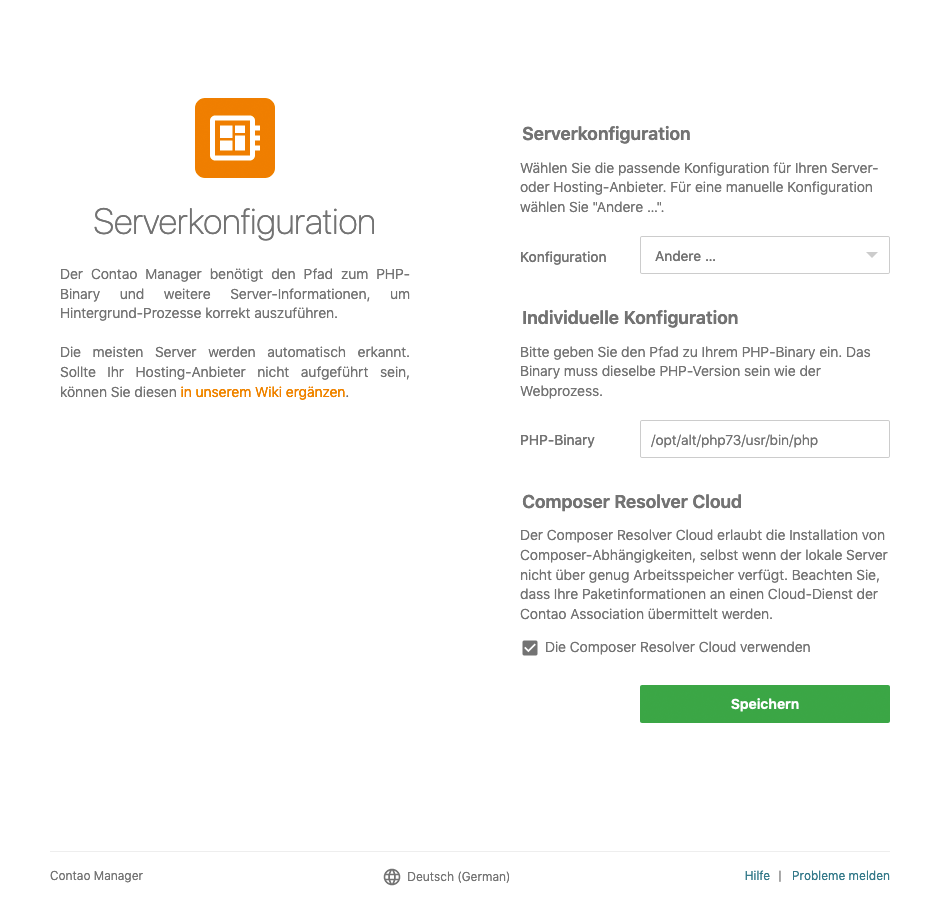
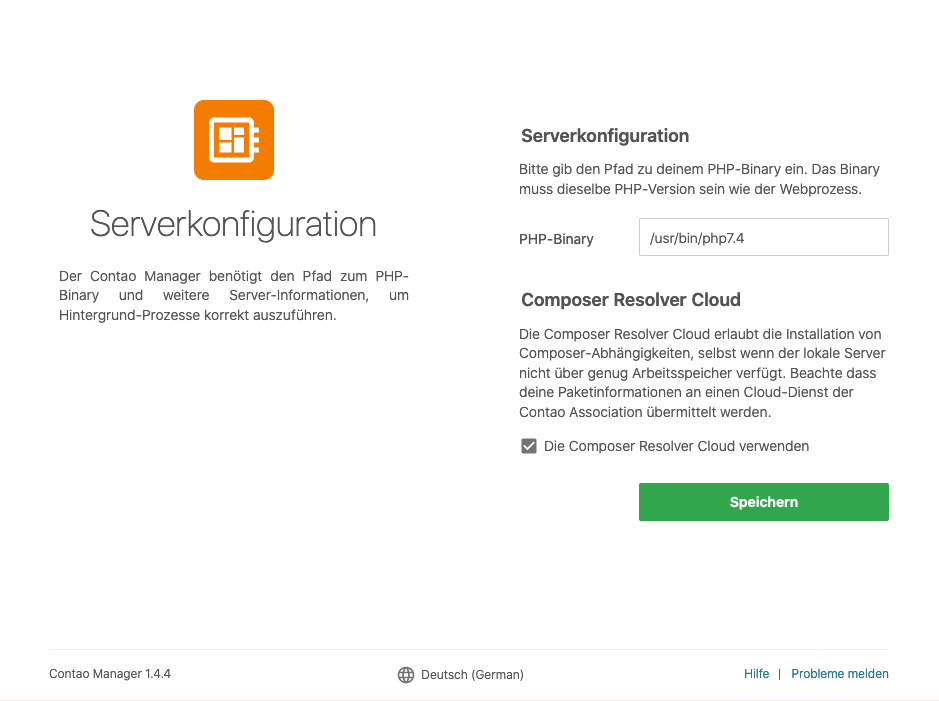
Remove the hosting provider select field

diff --git a/docs/manual/installation/contao-manager.de.md b/docs/manual/installation/contao-manager.de.md
@@ -101,16 +101,7 @@ Der Contao Manager benötigt keine eigene Datenbank. Die Konfiguration des Conta
 ### Serverkonfiguration
 
 Der Contao Manager benötigt den Pfad zum PHP-Binary und weitere Server-Informationen, um Hintergrund-Prozesse korrekt 
-auszuführen.
-
-Die meisten Server werden automatisch erkannt. Sollte dein Hosting-Anbieter nicht aufgeführt sein, kannst du diesen [in 
-unserem Wiki ergänzen](https://github.com/contao/contao-manager/wiki).
-
-
-#### Serverkonfiguration
-
-Wähle die passende Konfiguration für deinen Server- oder Hosting-Anbieter aus. Für eine manuelle Konfiguration wähle 
-»Andere …«.
+auszuführen. In der Regel wird der Pfad automatisch erkannt.
 
 ![Serverkonfiguration](/de/installation/images/de/serverkonfiguration.png?classes=shadow)
 
